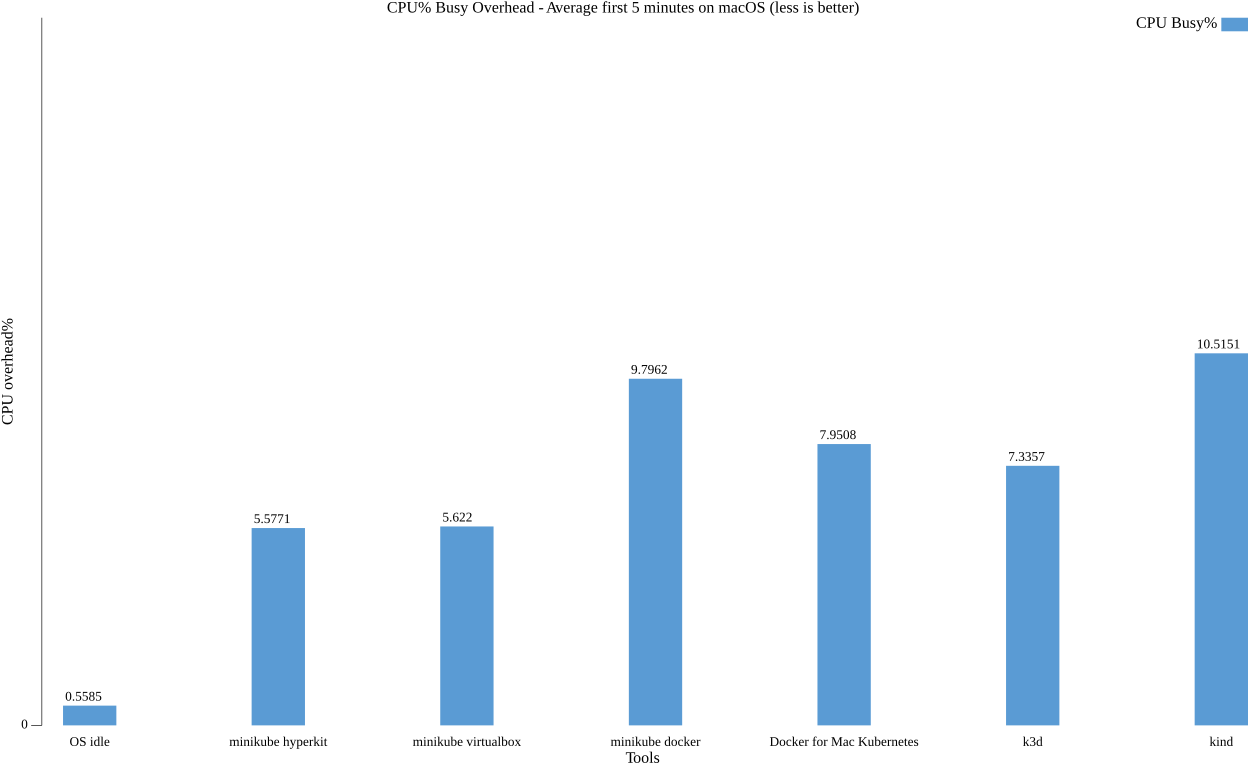
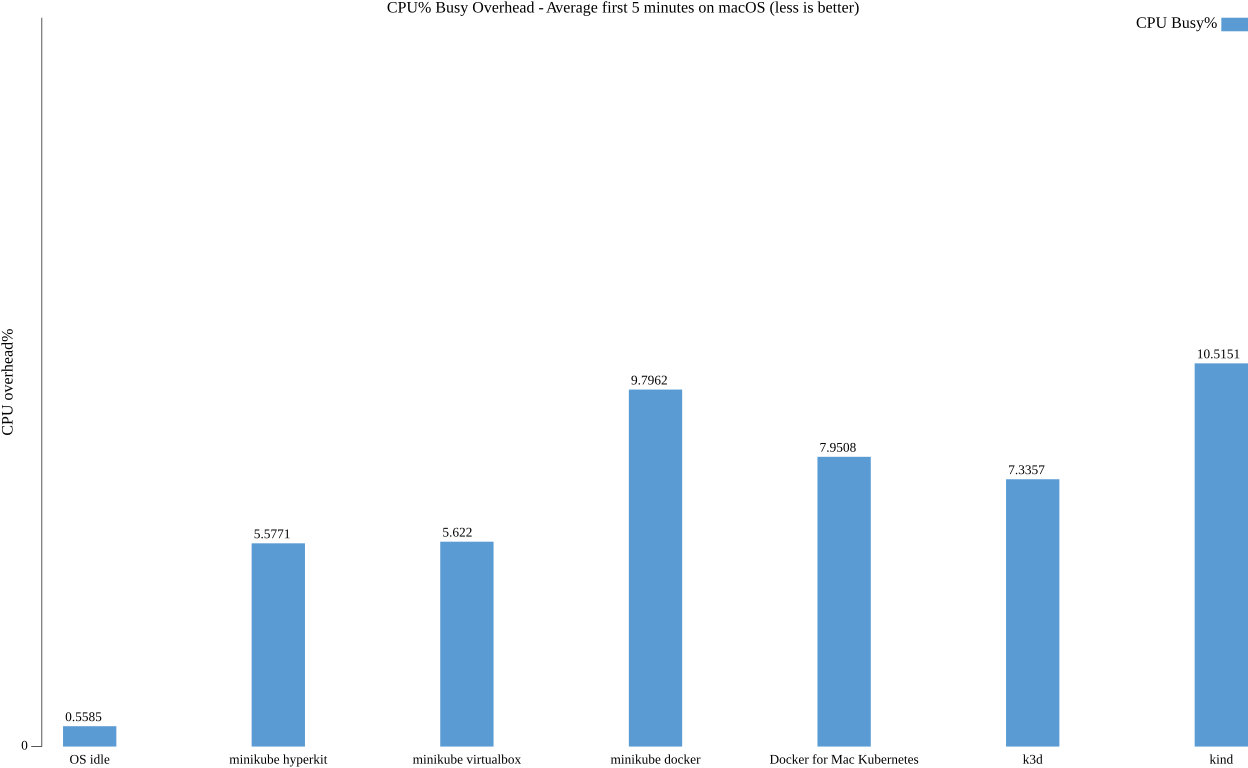
Change barChart color and add benchmark description to docs of benchmark

diff --git a/hack/benchmark/cpu_usage/auto_pause/chart.go b/hack/benchmark/cpu_usage/auto_pause/chart.go
@@ -19,6 +19,7 @@ package main
 import (
 	"encoding/csv"
 	"fmt"
+	"image/color"
 	"log"
 	"math"
 	"os"
@@ -131,9 +132,9 @@ func execute() error {
 	// Set border of the bar graph. 0 is no border color
 	barNAP.LineStyle.Width = vg.Length(0)
 	// Add bar name
-	p.Legend.Add("Initial start CPU usage", barNAP)
-	// Set bar color. 2 is blue
-	barNAP.Color = plotutil.Color(2)
+	p.Legend.Add("Initial Start CPU usage Before Pause", barNAP)
+	// Set bar color to gray.
+	barNAP.Color = color.RGBA{184, 184, 184, 255}
 
 	// Create Bar instance with auto-pause benchmark results
 	barAP, err := plotter.NewBarChart(plotter.Values(apResults), breadth)
@@ -144,7 +145,7 @@ func execute() error {
 	// Set border of the bar graph. 0 is no border color
 	barAP.LineStyle.Width = vg.Length(0)
 	// Add bar name
-	p.Legend.Add("Auto-paused CPU usage", barAP)
+	p.Legend.Add("Auto Paused CPU usage", barAP)
 	// Set bar color. 1 is green
 	barAP.Color = plotutil.Color(1)
 
@@ -162,7 +163,6 @@ func execute() error {
 	} else if runtime.GOOS == "linux" {
 		p.NominalX("OS idle", "minikube kvm2", "minikube virtualbox", "minikube docker", "Docker idle", "k3d", "kind")
 	}
-	p.X.Label.Text = "Tools"
 
 	// Set non-autopause data label to each bar
 	var napLabels []string

diff --git a/hack/benchmark/cpu_usage/idle_only/chart.go b/hack/benchmark/cpu_usage/idle_only/chart.go
@@ -119,7 +119,6 @@ func execute() error {
 	} else if runtime.GOOS == "linux" {
 		p.NominalX("OS idle", "minikube kvm2", "minikube virtualbox", "minikube docker", "Docker idle", "k3d", "kind")
 	}
-	p.X.Label.Text = "Tools"
 
 	// Set data label to each bar
 	var cpuLabels []string

diff --git a/site/content/en/docs/benchmarks/cpuUsage/linux/_index.md b/site/content/en/docs/benchmarks/cpuUsage/linux/_index.md
@@ -8,7 +8,10 @@ weight: 1
 
 This chart shows each tool's CPU busy overhead percentage.   
 After each tool's starting, we measured each tool's idle for 5 minutes.  
-This chart was measured only after the start without deploying any pods.
+This chart was measured only after the start without deploying any pods.  
+
+  1. start each local kubernetes tool
+  2. measure its cpu usage with [cstat](https://github.com/tstromberg/cstat)
 
 ![idleOnly](/images/benchmarks/cpuUsage/idleOnly/linux.png)
 
@@ -19,15 +22,16 @@ https://cloud.google.com/compute/docs/instances/enable-nested-virtualization-vm-
 
 This chart shows each tool's CPU busy overhead percentage with auto-pause addon.   
 The auto-pause is mechanism which reduce CPU busy usage by pausing kube-apiserver.  
-This chart was measured with the following steps.
-By these steps, we compare CPU usage with auto-pause vs. non-auto-pause.  
+We compare CPU usage after deploying sample application(nginx deployment) to all tools(including minikube and other tools).   
+This chart was measured with the following steps.   
+By these steps, we compare CPU usage with auto-pause vs. non-auto-pause.   
 
  1. start each local kubernetes tool
  2. deploy sample application(nginx deployment) to each tool
  3. wait 1 minute without anything
  4. measure No.3 idle CPU usage with [cstat](https://github.com/tstromberg/cstat)
  5. if tool is minikube, enable auto-pause addon which pause control plane
- 6. if tool is minikube, wait 1 minute so that control plane will become Paused status(It takes 1 minute to become Pause status from Stopped status)  
+ 6. if tool is minikube, wait 1 minute so that control plane will become Paused status(It takes 1 minute to become Pause status from Stopped status)
  7. if tool is minikube, verify if minikube control plane is paused
  8. if tool is minikube, wait 3 minute without anything
  9. if tool is minikube, measure No.8 idle CPU usage with [cstat](https://github.com/tstromberg/cstat)

diff --git a/site/content/en/docs/benchmarks/cpuUsage/macOS/_index.md b/site/content/en/docs/benchmarks/cpuUsage/macOS/_index.md
@@ -19,8 +19,9 @@ This chart was measured only after the start without deploying any pods.
 
 This chart shows each tool's CPU busy overhead percentage with auto-pause addon.   
 The auto-pause is mechanism which reduce CPU busy usage by pausing kube-apiserver.  
-This chart was measured with the following steps.
-By these steps, we compare CPU usage with auto-pause vs. non-auto-pause.  
+We compare CPU usage after deploying sample application(nginx deployment) to all tools(including minikube and other tools).   
+This chart was measured with the following steps.   
+By these steps, we compare CPU usage with auto-pause vs. non-auto-pause.   
 
  1. start each local kubernetes tool
  2. deploy sample application(nginx deployment) to each tool
